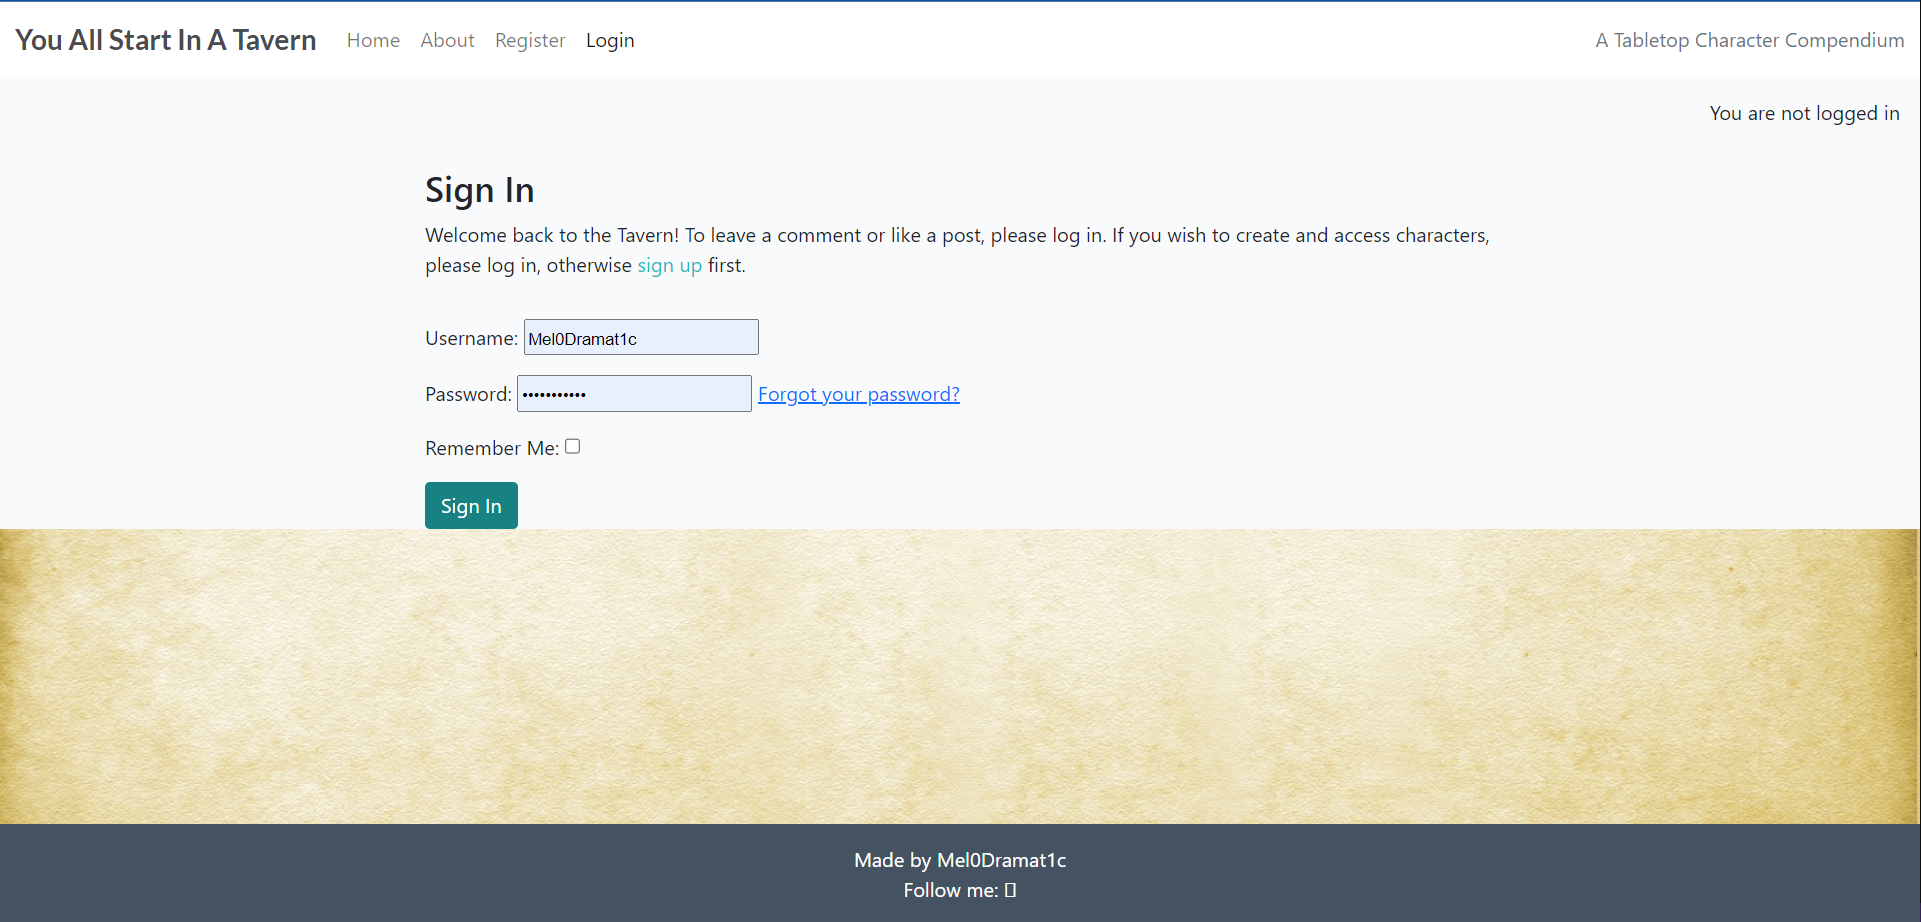
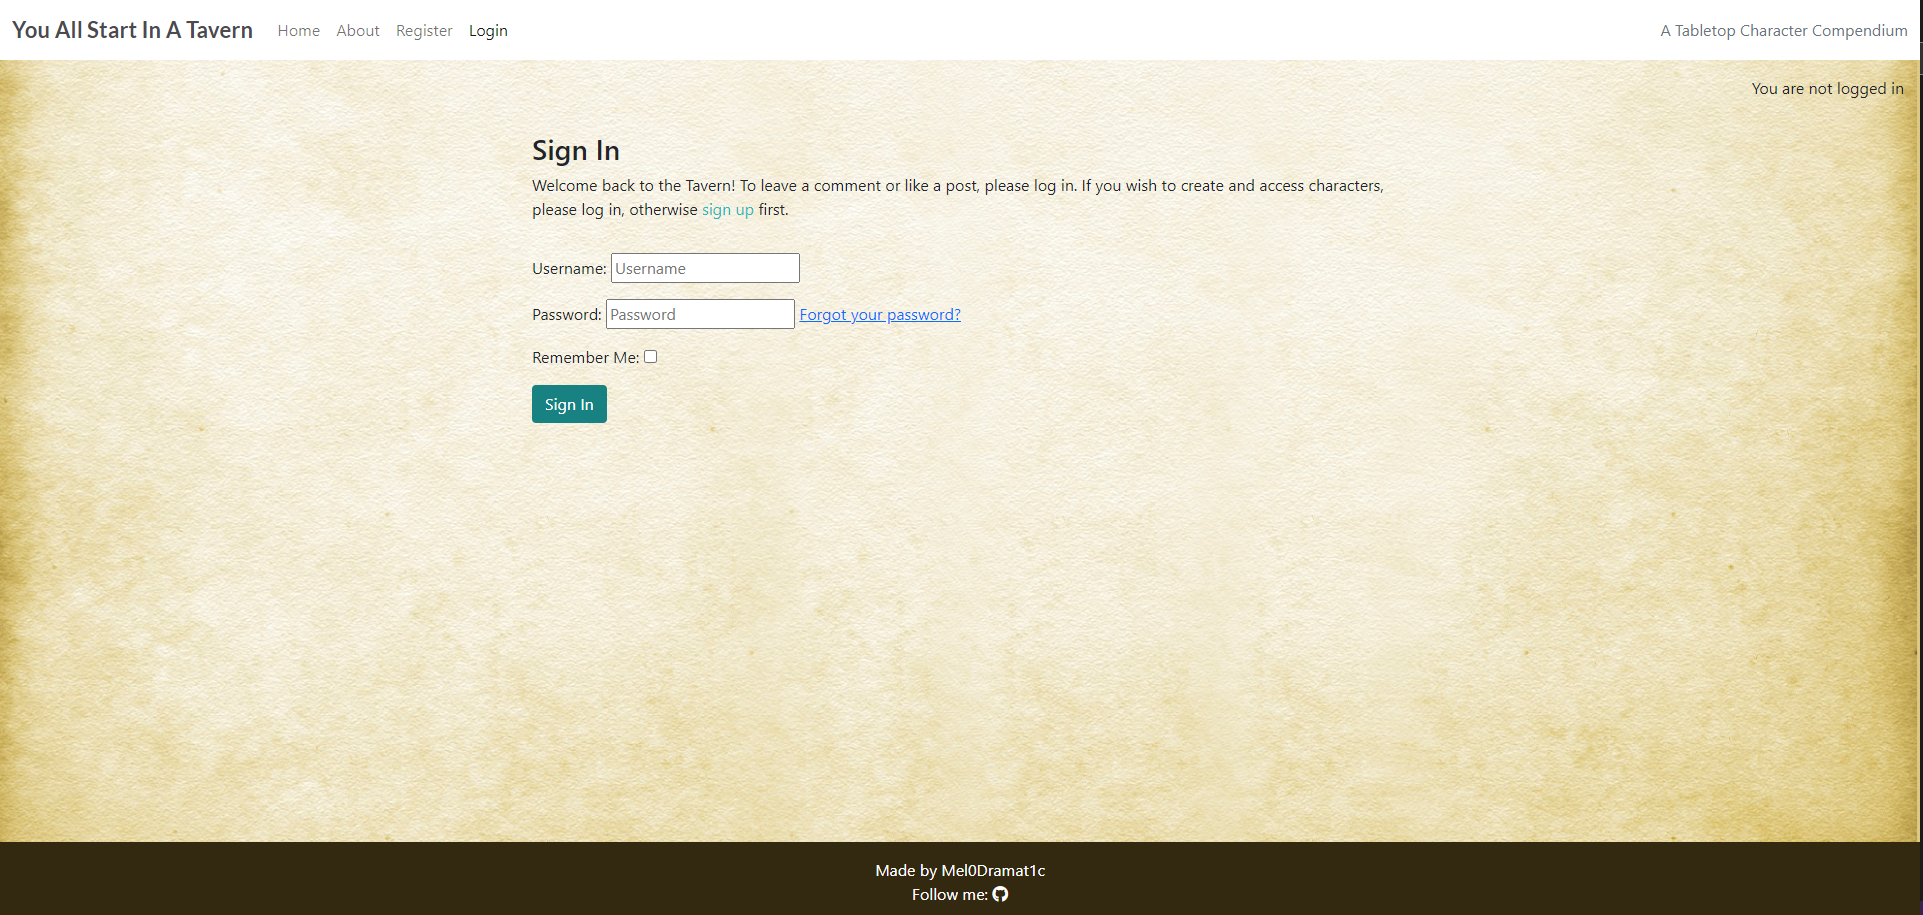
Update readme with coolers and add documentation images

diff --git a/characters/templates/character.html b/characters/templates/character.html
@@ -4,7 +4,7 @@
 <div class="container mt-5">
   <div class="row">
     <div class="col-4 text-center">
-      <img src="{% static 'images/placeholder.jpg' %}" class="img-fluid">
+      <img src="{% static 'images/default2.jpeg' %}" class="img-fluid">
     </div>
     <div class="col-8">
       <div class="row">

diff --git a/README.md b/README.md
@@ -20,39 +20,7 @@ Consider adding a mockup image using the "Am I Responsive" website.
 Here's your deployed site as an example:
 https://ui.dev/amiresponsive?url=https://you-all-start-in-a-tavern-91f97ae29726.herokuapp.com
 
-![screenshot](documentation/mockup.png)
-
-Note: Markdown files (.md) should not contain HTML elements like `img`, `br`, `div`, `a`, etc, only Markdown formatting.
-Find out more about using Markdown elements here:
-https://pandao.github.io/editor.md/en.html
-
----
-
-GitHub now supports CALLOUTS in Markdown files.
-There are some callouts already embedded in this application for you.
-However, if you feel that you want to add more, there are certain ones you can use.
-
-NOTE: the preview for callouts isn't yet supported in Gitpod/Codeanywhere/VSCode/etc.
-You'll have to commit/push the changes to GitHub to see it in action.
-
-> [!NOTE]  
-> BLUE: Highlights information that users should take into account, even when skimming.
-
-> [!TIP]  
-> GREEN: Optional information to help a user be more successful.
-
-> [!IMPORTANT]  
-> PURPLE: Crucial information necessary for users to succeed.
-
-> [!WARNING]  
-> YELLOW: Critical content demanding immediate user attention due to potential risks.
-
-> [!CAUTION]  
-> RED: Negative potential consequences of an action.
-
-Source: https://github.com/orgs/community/discussions/16925
-
-🛑🛑🛑🛑🛑🛑🛑🛑🛑🛑-END OF NOTES (to be deleted)
+![screenshot](documentation/amiresponsive.png)
 
 ## UX
 
@@ -60,29 +28,14 @@ The purpose of this website is to provide quick access to character sheets acros
 
 ### Colour Scheme
 
-🛑🛑🛑🛑🛑🛑🛑🛑🛑START OF NOTES (to be deleted)
+The following colours were used to create a clear and readable website while maintaining the theme of fantasy adventure.
 
-Explain your colours and the colour scheme.
+- `#4A4A4F` used for primary text.
+- `#188181` used for primary highlights.
+- `#ffffff` used for navbar.
+- `#000000` used for secondary text.
 
-🛑🛑🛑🛑🛑🛑🛑🛑🛑🛑-END OF NOTES (to be deleted)
-
-- `#000000` used for primary text.
-- `#E84610` used for primary highlights.
-- `#4A4A4F` used for secondary text.
-- `#009FE3` used for secondary highlights.
-
-🛑🛑🛑🛑🛑🛑🛑🛑🛑START OF NOTES (to be deleted)
-
-Consider adding a link and screenshot for your colour scheme using "coolors".
-https://coolors.co/generate
-
-When you add a colour to the palette, the URL is dynamically updated, making it easier for you to return back to your colour palette later if needed.
-
-Example:
-
-🛑🛑🛑🛑🛑🛑🛑🛑🛑🛑-END OF NOTES (to be deleted)
-
-I used [coolors.co](https://coolors.co/e84610-009fe3-4a4a4f-445261-d63649-e6ecf0-000000) to generate my colour palette.
+I used [coolors.co](https://coolors.co/4a4a4f-332810-ffffff-188181-000000) to generate my colour palette.
 
 ![screenshot](documentation/coolors.png)
 
@@ -125,8 +78,10 @@ I used [coolors.co](https://coolors.co/e84610-009fe3-4a4a4f-445261-d63649-e6ecf0
 To follow best practice, wireframes were developed for mobile, tablet, and desktop sizes.
 I've used [Balsamiq](https://balsamiq.com/wireframes) to design my site wireframes.
 
+### Desktop Wireframes
+
 <details>
-<summary> Click here to see the PC Wireframes </summary>
+<summary> Click here to see the Desktop Wireframes </summary>
 
 Home
   - ![screenshot](documentation/wireframes/home.png)
@@ -170,28 +125,6 @@ About
 
 Create A Character
   - ![screenshot](documentation/wireframes/tablet-contact.png)
-
-</details>
-
-### Desktop Wireframes
-
-<details>
-<summary> Click here to see the Desktop Wireframes </summary>
-
-Home
-  - ![screenshot](documentation/wireframes/desktop-home.png)
-
-About
-  - ![screenshot](documentation/wireframes/desktop-about.png)
-
-Contact
-  - ![screenshot](documentation/wireframes/desktop-contact.png)
-
-Gallery
-  - ![screenshot](documentation/wireframes/desktop-gallery.png)
-
-etc.
-  - repeat for any remaining desktop wireframes
 
 </details>
 
@@ -274,6 +207,7 @@ Understanding the relationships between different tables can save time later in 
 
 ![screenshot](documentation/erd.png)
 
+## Models
 
 ```python
 class CharacterClass(models.Model):
@@ -378,7 +312,6 @@ INSTALLED_APPS = [
 - removed `'django_extensions',` from my `INSTALLED_APPS`
 - finally, in the terminal: `pip3 uninstall django-extensions pygraphviz -y`
 
-![erd](documentation/erd.png)
 source: [medium.com](https://medium.com/@yathomasi1/1-using-django-extensions-to-visualize-the-database-diagram-in-django-application-c5fa7e710e16)
 
 
